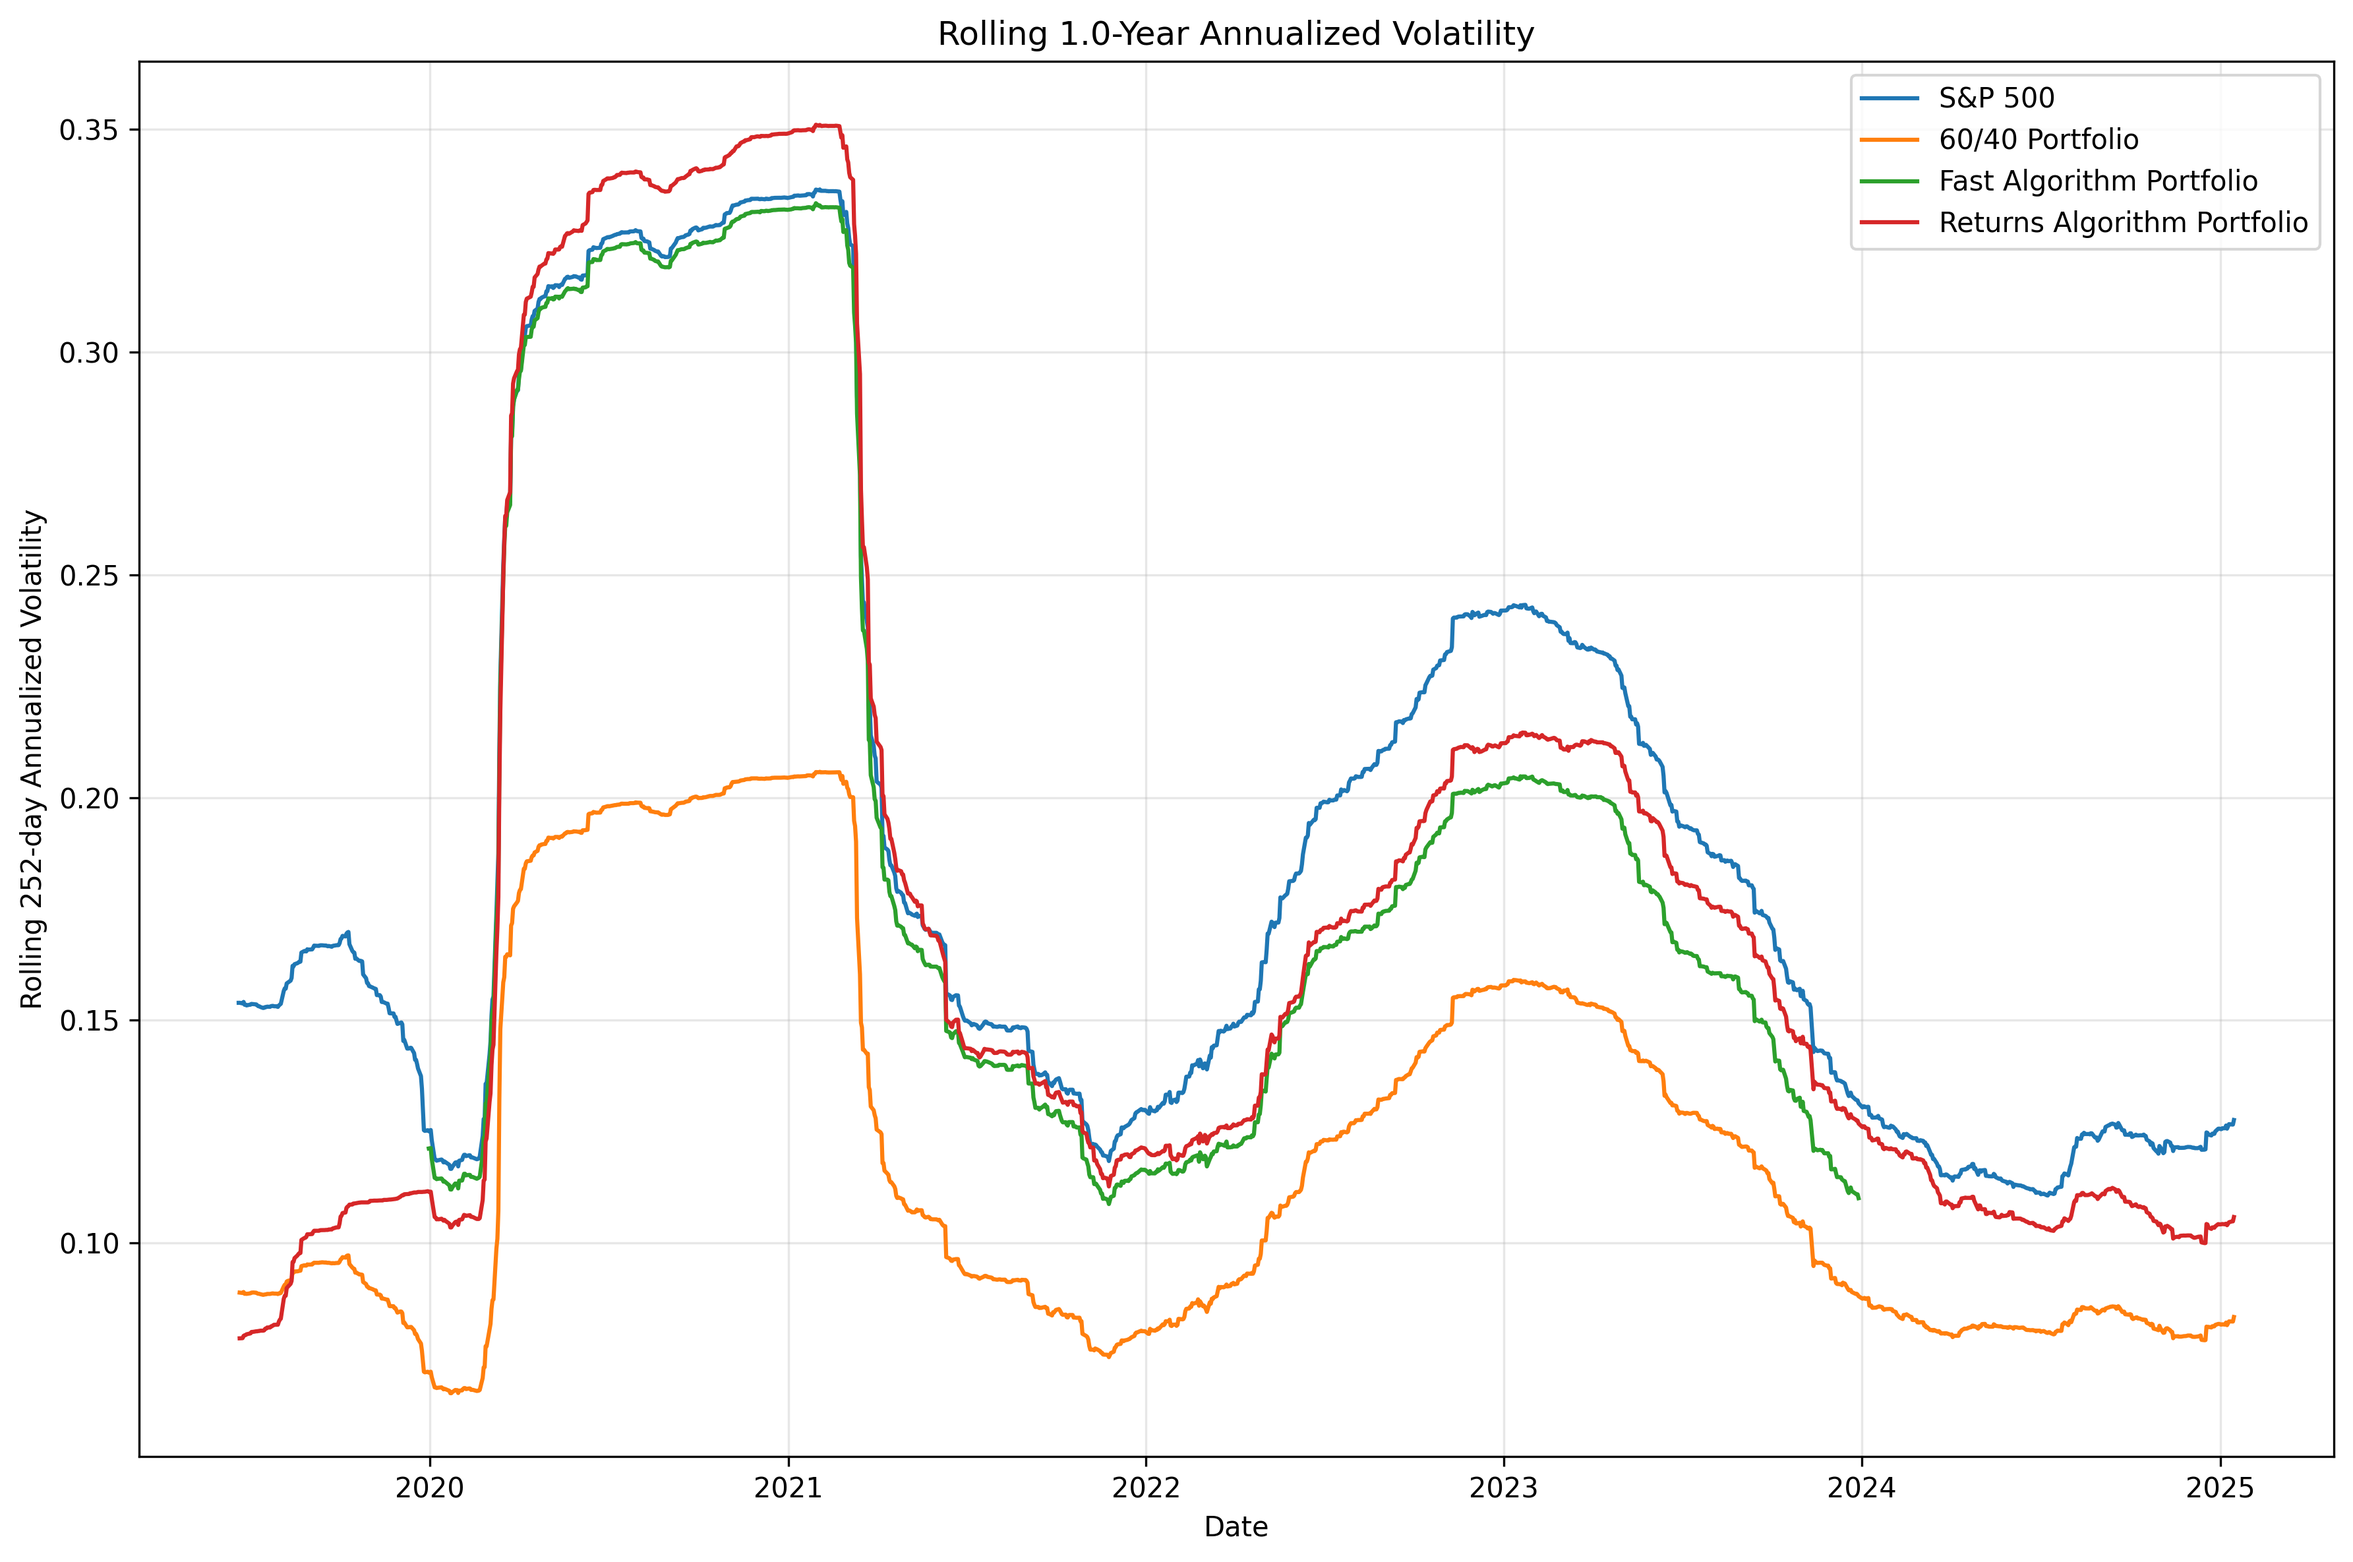
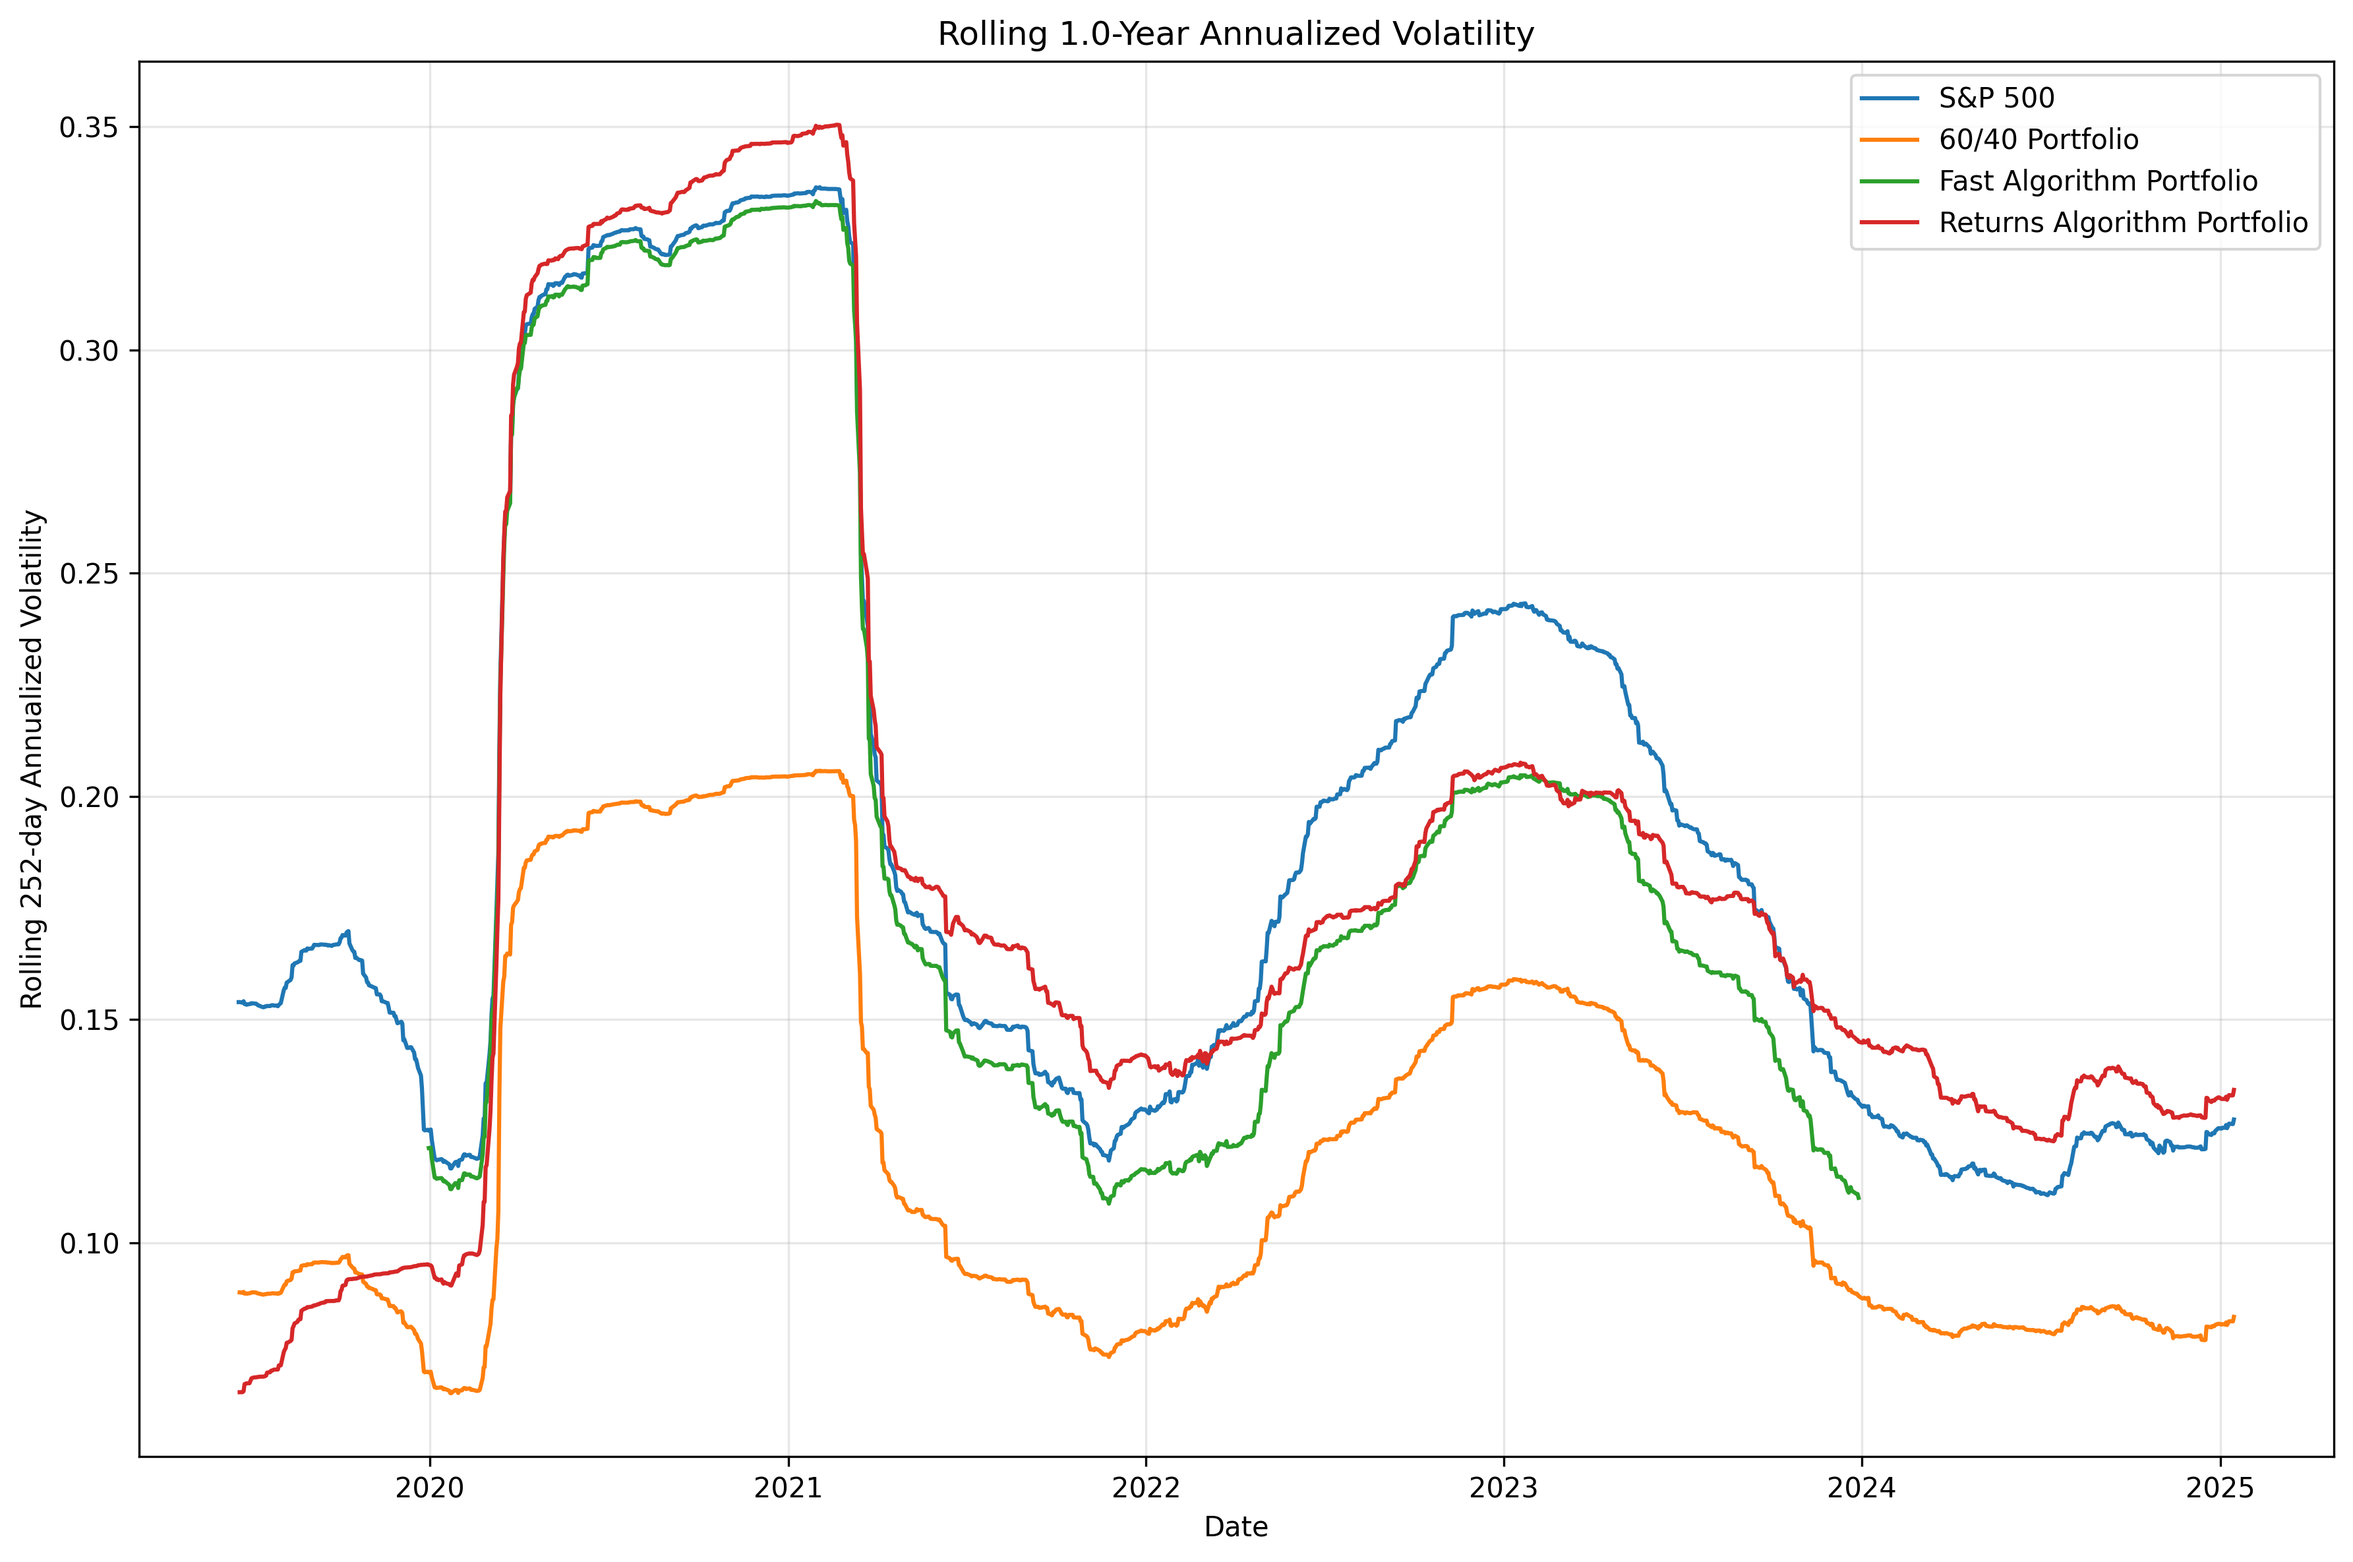
now actually making selections

diff --git a/src/optimization/returns_algorithm.py b/src/optimization/returns_algorithm.py
@@ -82,7 +82,7 @@ def select_top_performers(
     rolling_returns : pd.Series
         Rolling returns for each asset
     max_assets : Optional[int], optional
-        Maximum number of assets to select, by default None (select all)
+        Maximum number of assets to select, by default 5
 
     Returns:
     --------
@@ -101,11 +101,8 @@ def select_top_performers(
         )
         return list(selected)
 
-    # Apply max_assets constraint if specified
-    if max_assets is not None:
-        selected = sorted_returns.head(max_assets).index
-    else:
-        selected = sorted_returns.index
+    # Always select top 5 assets
+    selected = sorted_returns.head(5).index
 
     return list(selected)
 
@@ -129,6 +126,10 @@ def calculate_weights(selected_assets: List[str], max_weight: float = 0.2) -> pd
     n_assets = len(selected_assets)
     if n_assets == 0:
         raise ValueError("No assets selected")
+
+    # If we have 5 or fewer assets, each gets max_weight
+    if n_assets <= 5:
+        return pd.Series(max_weight, index=selected_assets)
 
     # Calculate equal weights
     weights = pd.Series(1.0 / n_assets, index=selected_assets)
@@ -206,6 +207,9 @@ def create_returns_based_portfolio(
         "rebalance_dates": [],
         "selected_assets": [],
         "weights": [],
+        "selected_returns": [],  # Returns of selected assets
+        "near_miss_assets": [],  # Next 3 highest returns not selected
+        "near_miss_returns": [],  # Returns of near-miss assets
     }
 
     # Initialize holdings
@@ -225,6 +229,22 @@ def create_returns_based_portfolio(
             selected_assets = select_top_performers(latest_returns)
             current_weights = calculate_weights(selected_assets, max_weight)
 
+            # Get returns for selected assets
+            selected_returns = latest_returns[selected_assets].to_dict()
+
+            # Get next 3 highest returns not selected
+            all_assets = latest_returns.sort_values(ascending=False)
+            near_miss_assets = []
+            near_miss_returns = {}
+            count = 0
+            for asset, ret in all_assets.items():
+                if asset not in selected_assets:
+                    near_miss_assets.append(asset)
+                    near_miss_returns[asset] = ret
+                    count += 1
+                    if count >= 3:
+                        break
+
             # Initialize holdings
             total_value = portfolio_values.iloc[i - 1]
             holdings = current_weights * total_value
@@ -233,11 +253,17 @@ def create_returns_based_portfolio(
             logging.info(f"Rebalancing on {date.date()}")
             logging.info(f"Selected assets: {selected_assets}")
             logging.info(f"Portfolio weights: {current_weights.to_dict()}")
+            logging.info(f"Selected returns: {selected_returns}")
+            logging.info(f"Near miss assets: {near_miss_assets}")
+            logging.info(f"Near miss returns: {near_miss_returns}")
 
             # Store portfolio info
             portfolio_info["rebalance_dates"].append(date)
             portfolio_info["selected_assets"].append(selected_assets)
-            portfolio_info["weights"].append(current_weights)
+            portfolio_info["weights"].append(current_weights.to_dict())
+            portfolio_info["selected_returns"].append(selected_returns)
+            portfolio_info["near_miss_assets"].append(near_miss_assets)
+            portfolio_info["near_miss_returns"].append(near_miss_returns)
 
         # Update holdings based on price changes
         if holdings is not None:

diff --git a/results/analysis/benchmark_analysis.md b/results/analysis/benchmark_analysis.md
@@ -6,26 +6,26 @@
 
 |                       | S&P 500   | 60/40 Portfolio   | Fast Algorithm Portfolio   | Returns Algorithm Portfolio   |
 |:----------------------|:----------|:------------------|:---------------------------|:------------------------------|
-| Total Return          | 138.65%   | 78.22%            | 114.08%                    | 129.90%                       |
-| Annualized Return     | 16.41%    | 10.04%            | 18.73%                     | 15.48%                        |
-| Annualized Volatility | 19.62%    | 12.25%            | 19.57%                     | 18.36%                        |
-| Sharpe Ratio          | 0.734     | 0.656             | 0.855                      | 0.734                         |
-| Jensen's Alpha        | -0.01%    | -0.47%            | 1.76%                      | 0.83%                         |
-| Beta                  | 1.00      | 0.61              | 0.91                       | 0.88                          |
-| Max Drawdown          | -33.72%   | -21.19%           | -33.03%                    | -35.77%                       |
-| Value at Risk (95%)   | -1.85%    | -1.12%            | -1.65%                     | -1.58%                        |
-| Conditional VaR (95%) | -2.99%    | -1.84%            | -2.99%                     | -2.77%                        |
-| Skewness              | -0.530    | -0.665            | -0.525                     | -0.687                        |
-| Kurtosis              | 11.954    | 14.681            | 15.112                     | 18.868                        |
+| Total Return          | 138.65%   | 78.22%            | 114.08%                    | 149.46%                       |
+| Annualized Return     | 16.41%    | 10.04%            | 18.73%                     | 17.01%                        |
+| Annualized Volatility | 19.62%    | 12.25%            | 19.57%                     | 18.77%                        |
+| Sharpe Ratio          | 0.734     | 0.656             | 0.855                      | 0.800                         |
+| Jensen's Alpha        | -0.01%    | -0.47%            | 1.76%                      | 2.35%                         |
+| Beta                  | 1.00      | 0.61              | 0.91                       | 0.86                          |
+| Max Drawdown          | -33.72%   | -21.19%           | -33.03%                    | -34.53%                       |
+| Value at Risk (95%)   | -1.85%    | -1.12%            | -1.65%                     | -1.73%                        |
+| Conditional VaR (95%) | -2.99%    | -1.84%            | -2.99%                     | -2.78%                        |
+| Skewness              | -0.530    | -0.665            | -0.525                     | -0.518                        |
+| Kurtosis              | 11.954    | 14.681            | 15.112                     | 17.183                        |
 
 ## Return Correlations
 
 |                             |   S&P 500 |   60/40 Portfolio |   Fast Algorithm Portfolio |   Returns Algorithm Portfolio |
 |:----------------------------|----------:|------------------:|---------------------------:|------------------------------:|
-| S&P 500                     |  1        |          0.977159 |                   0.977352 |                      0.937827 |
-| 60/40 Portfolio             |  0.977159 |          1        |                   0.94943  |                      0.918879 |
-| Fast Algorithm Portfolio    |  0.977352 |          0.94943  |                   1        |                      0.978308 |
-| Returns Algorithm Portfolio |  0.937827 |          0.918879 |                   0.978308 |                      1        |
+| S&P 500                     |  1        |          0.977159 |                   0.977352 |                      0.903633 |
+| 60/40 Portfolio             |  0.977159 |          1        |                   0.94943  |                      0.88418  |
+| Fast Algorithm Portfolio    |  0.977352 |          0.94943  |                   1        |                      0.939152 |
+| Returns Algorithm Portfolio |  0.903633 |          0.88418  |                   0.939152 |                      1        |
 
 ## Benchmark Descriptions
 
